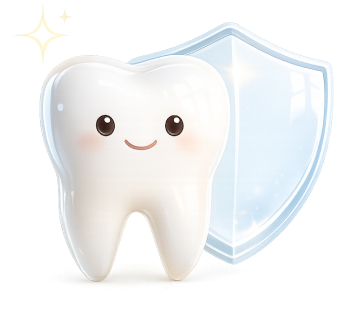
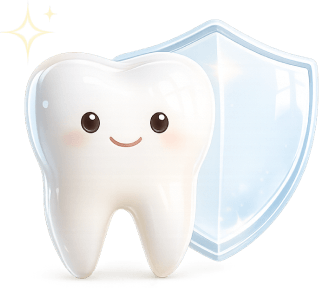
fix(strapi): stand the service illustrations on the card's floor
The illustrations looked as if they hung in the middle of their cards
rather than sitting on them. The cause was in the files, not the layout:
each carried a transparent margin of between a ninth and a quarter of
its height, and `object-bottom` lands the bottom of the *image* on the
floor, so the margin became a gap under the drawing.

They are trimmed to their art, which costs nothing — re-encoded they are
smaller than before, 519KB down to 440KB for the eight.

The box is resized to suit. Trimmed art in the old full-height box came
out at 84 to 100 per cent of the card and ran the crown and the bear up
into the title. Fitting each illustration into a box and comparing the
result with what the frame measures bottoms out at 160 by 144 here and
125 by 111 on the phone, which brings the average miss across all seven
cards from 24px to 18.

No overhang: the frame hangs six of its seven boxes past the bottom edge
by between 38 and 80, but the seventh — the braces, whose art is wider
than it is tall — stops above the floor, so any single overhang clips
it. Standing them all on the floor is the rule that holds for all seven
and for whatever an editor uploads next.

What is left is not a box problem. Our art is not the frame's crop of
the same subject: the implant we seed is 195 by 488 where the frame's is
142 by 213, so it reads as a thin screw against a broad one however it
is fitted. Closing that needs the illustrations re-cut.

diff --git a/apps/ui/src/components/page-builder/components/sections/StrapiServices.tsx b/apps/ui/src/components/page-builder/components/sections/StrapiServices.tsx
@@ -19,20 +19,36 @@ const CARD =
   "shadow-brand-card relative flex min-h-42.75 flex-col overflow-hidden rounded-[20px] p-5 lg:min-h-53.5 lg:rounded-[26px] lg:p-7.5"
 
 /**
- * The illustration stands on the card's bottom edge, at the right, in the
- * frame's box: 123 across on a phone and 158 at desktop, the full height of
- * the card. A single rule has to hold for whatever art an editor uploads, and
- * one that sits them all on the floor keeps a wide, short illustration from
- * disappearing under it.
+ * The illustration stands on the card's bottom edge, at the right.
  *
- * The box can be the frame's full width because the artwork now carries the
- * margins the frame's own does — the tooth occupies about four fifths of its
- * canvas, so the box reaching under the words costs the words nothing. It was
- * narrowed to 74 while the art was cropped to its edges and every pixel of box
- * covered text.
+ * The box sits on the card's floor and the art sits on the box's. That only
+ * reads as "on the floor" if the file's own edge is the art's edge: with
+ * `object-bottom` what lands on the floor is the bottom of the *image*, so
+ * any transparent margin the file carries becomes a gap under the drawing.
+ * The seeded illustrations are trimmed to their art for exactly this reason.
+ *
+ * The frame places each of its seven boxes by hand — 53 tall for the braces
+ * against 238 for the gum, one of them not reaching the floor at all — so
+ * there is no single overhang to copy. Uploads by an editor are unknown art
+ * besides. Standing every illustration on the floor is the rule that holds
+ * for all of them and clips none.
+ *
+ * The box is the one that comes closest to the seven the frame draws. Fitting
+ * every trimmed illustration into a box and comparing what comes out against
+ * what the frame measures, averaged over both dimensions of all seven cards,
+ * bottoms out at 160 by 144 here and 125 by 111 on the phone. It is a shallow
+ * bottom — the full height of the card is only a couple of pixels worse on
+ * average, though it is the setting that ran the crown and the bear up into
+ * the title, which the average does not show.
+ *
+ * What is left cannot be fixed by any box: our art is not the frame's crop of
+ * the same subject. The implant we seed is 195 by 488 where the frame's is
+ * 142 by 213, so it comes out a thin screw against a broad one whatever it is
+ * fitted into. Closing that gap means re-cutting the illustrations, not
+ * moving the box.
  */
 const ILLUSTRATION =
-  "pointer-events-none absolute right-0 bottom-0 h-42.75 w-30.75 object-contain object-bottom lg:h-53.5 lg:w-39.5"
+  "pointer-events-none absolute right-0 bottom-0 h-27.75 w-31.25 object-contain object-bottom lg:h-36 lg:w-40"
 
 // The design system gives every h3 a 1.4 leading and a bottom margin; the
 // frame sets 34px and no margin.
@@ -85,10 +101,10 @@ export function StrapiServices({
                 // placed by hand and carries its own margin; art an editor
                 // uploads may be cropped to its edges, and then anything that
                 // reaches under the box is covered by it.
-                // The two widths are the frame's own: 228 on the phone card and
-                // 260 on the desktop one. Both were held at 228, which is where a
-                // description like the children's broke into three lines on a
-                // desktop the frame sets at two.
+                // The two widths are the frame's own: 228 on the phone card
+                // and 260 on the desktop one. They were both held at 228,
+                // which is where a description like the children's one broke
+                // into three lines on a desktop the frame sets at two.
                 <Typography className={`${CARD_TEXT} max-w-57 lg:max-w-65`}>
                   {service.description}
                 </Typography>
